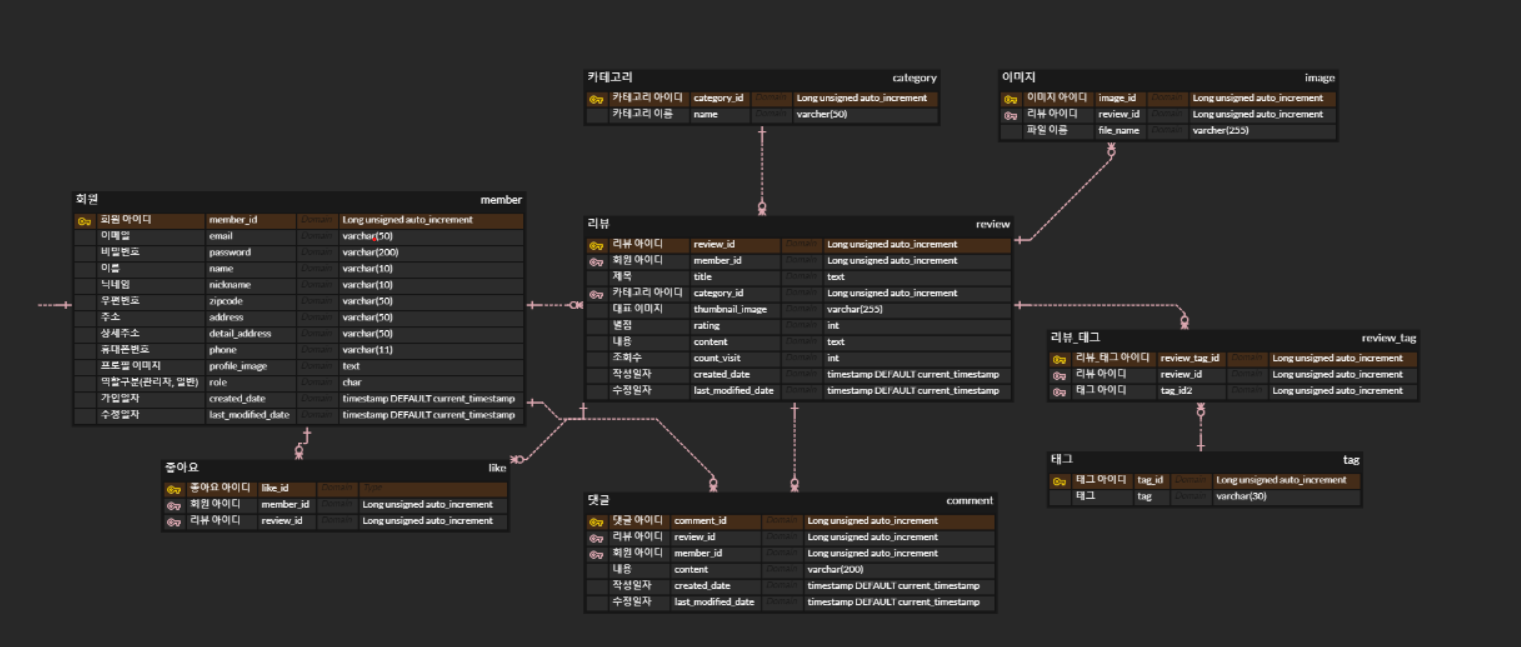
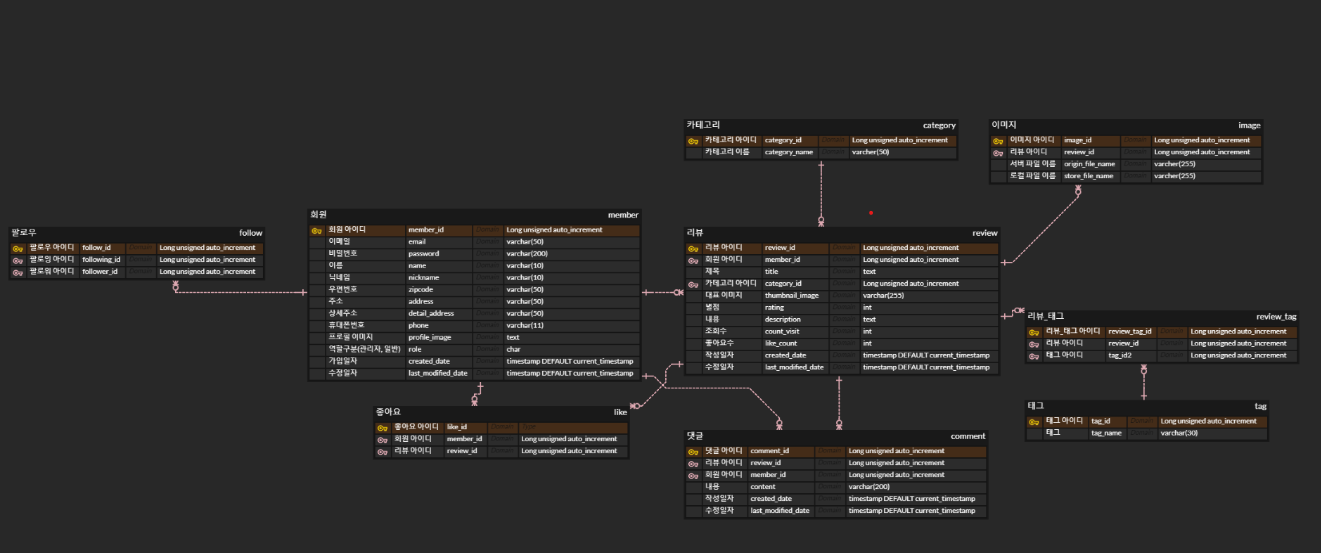
리뷰_좋아요 v0.3

diff --git a/rol/src/main/resources/static/js/review.js b/rol/src/main/resources/static/js/review.js
@@ -18,8 +18,19 @@ likeBtn.addEventListener('click', () => {
     if(likeBtn.classList.contains('anonymous')) {
         alert('좋아요는 로그인 후에 이용가능합니다.');
     } else {
-        console.log("좋아요");
-        //const xhr = new XMLHttpRequest();
-        //xhr.open("GET", "/review/like", true);
+        const url = window.location.href;
+        const id = url.substring(url.length-1); // review id
+
+        const xhr = new XMLHttpRequest();
+        xhr.open("GET", `/review/${id}/like`, true);
+        xhr.send();
+        xhr.onload = (data) => {
+            const likeImg = likeBtn.querySelector('.like-btn');
+            likeImg.classList.toggle('active');
+
+            const count = data.target.response; // Like Api response
+            const likeCount = document.querySelector('.detail-review__like-count');
+            likeCount.innerHTML = count;
+        }
     }
 });

diff --git a/rol/src/main/resources/templates/review/review.html b/rol/src/main/resources/templates/review/review.html
@@ -99,7 +99,7 @@
                             <button class="like-btn" th:if="${isLike}"></button>
                         </div>
                         <span class="detail-review__like-text">좋아요</span>
-                        <span class="detail-review__like-score">10</span>
+                        <span class="detail-review__like-count" th:text="*{likeCount}">10</span>
                     </div>
                 </article>
             </div>

diff --git a/rol/src/main/resources/static/css/review.css b/rol/src/main/resources/static/css/review.css
@@ -108,7 +108,7 @@
     font-weight: bold;
 }
 
-.detail-review__like-score {
+.detail-review__like-count {
     margin-left: .3rem;
     font-size: var(--font-medium-small);
     font-weight: bold;

diff --git a/rol/src/main/java/wjdghks95/project/rol/service/ReviewServiceImpl.java b/rol/src/main/java/wjdghks95/project/rol/service/ReviewServiceImpl.java
@@ -6,6 +6,7 @@ import org.springframework.transaction.annotation.Transactional;
 import wjdghks95.project.rol.domain.dto.ReviewDto;
 import wjdghks95.project.rol.domain.entity.*;
 import wjdghks95.project.rol.repository.LikeEntityRepository;
+import wjdghks95.project.rol.repository.MemberRepository;
 import wjdghks95.project.rol.repository.ReviewRepository;
 import wjdghks95.project.rol.repository.ReviewTagRepository;
 
@@ -17,6 +18,7 @@ import java.util.Optional;
 @RequiredArgsConstructor
 @Transactional(readOnly = true)
 public class ReviewServiceImpl implements ReviewService{
+    private final MemberRepository memberRepository;
     private final ReviewRepository reviewRepository;
     private final CategoryService categoryService;
     private final TagService tagService;
@@ -63,33 +65,35 @@ public class ReviewServiceImpl implements ReviewService{
         return reviewRepository.findById(id).orElseThrow();
     }
 
+    @Transactional
     @Override
     public void like(Member member, Review review) {
-        Optional<LikeEntity> byMemberAndReview = likeEntityRepository.findByMemberAndReview(member, review);
-
+        Member findMember = memberRepository.findById(member.getId()).orElseThrow();
+        Optional<LikeEntity> byMemberAndReview = likeEntityRepository.findByMemberAndReview(findMember, review);
         byMemberAndReview.ifPresentOrElse(
                 // 좋아요가 있을 경우 삭제
-                reviewLike -> {
-                    likeEntityRepository.delete(reviewLike);
-                    review.discountLike(reviewLike);
+                likeEntity -> {
+                    review.discountLike(likeEntity);
+                    review.updateLikeCount();
+                    likeEntityRepository.delete(likeEntity);
                 },
 
                 // 좋아요가 없을 경우 좋아요 추가
                 () -> {
                     LikeEntity likeEntity = LikeEntity.builder()
                                     .review(review)
-                                    .member(member)
+                                    .member(findMember)
                                     .build();
 
                     likeEntity.setReview(review);
-                    likeEntity.setMember(member);
+                    likeEntity.setMember(findMember);
                     review.updateLikeCount();
-
                     likeEntityRepository.save(likeEntity);
                 }
         );
     }
 
+    // 로그인한 member와 현재 review를 가진 좋아요가 없을 경우 false
     @Override
     public boolean isLike(Member member, Review review) {
         return likeEntityRepository.findByMemberAndReview(member, review).isEmpty();

diff --git a/rol/src/main/java/wjdghks95/project/rol/controller/LikeController.java b/rol/src/main/java/wjdghks95/project/rol/controller/LikeController.java
@@ -1,0 +1,28 @@
+package wjdghks95.project.rol.controller;
+
+import lombok.RequiredArgsConstructor;
+import org.springframework.security.core.annotation.AuthenticationPrincipal;
+import org.springframework.web.bind.annotation.GetMapping;
+import org.springframework.web.bind.annotation.PathVariable;
+import org.springframework.web.bind.annotation.RestController;
+import wjdghks95.project.rol.domain.entity.Member;
+import wjdghks95.project.rol.domain.entity.Review;
+import wjdghks95.project.rol.security.service.MemberContext;
+import wjdghks95.project.rol.service.ReviewService;
+
+@RestController
+@RequiredArgsConstructor
+public class LikeController {
+
+    private final ReviewService reviewService;
+
+    @GetMapping("/review/{id}/like")
+    public int like(@PathVariable Long id, @AuthenticationPrincipal MemberContext memberContext) {
+        Member member = memberContext.getMember();
+        Review review = reviewService.findById(id);
+
+        reviewService.like(member, review);
+        int likeCount = review.getLikeCount();
+        return likeCount;
+    }
+}

diff --git a/rol/src/main/java/wjdghks95/project/rol/domain/entity/Review.java b/rol/src/main/java/wjdghks95/project/rol/domain/entity/Review.java
@@ -58,6 +58,7 @@ public class Review extends BaseEntity {
         category.getReviewList().add(this);
         this.rating = rating;
         this.countVisit = 0;
+        this.likeCount = 0;
     }
 
     /**
